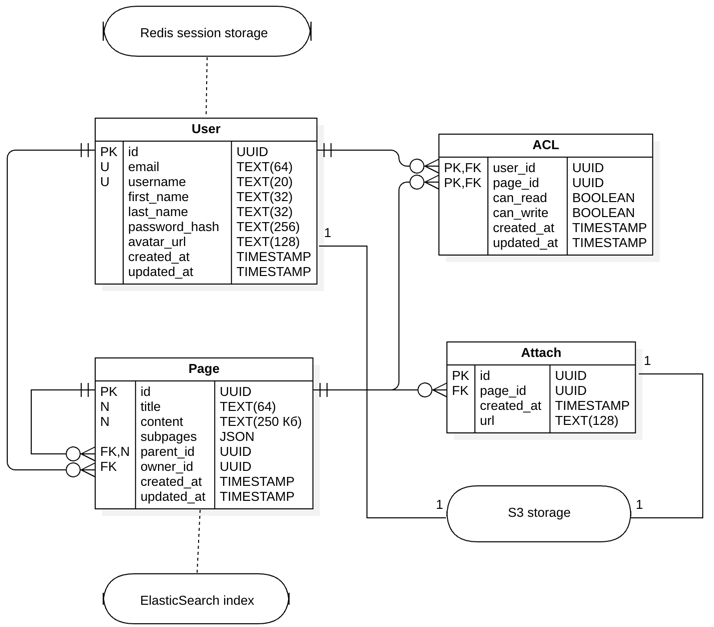
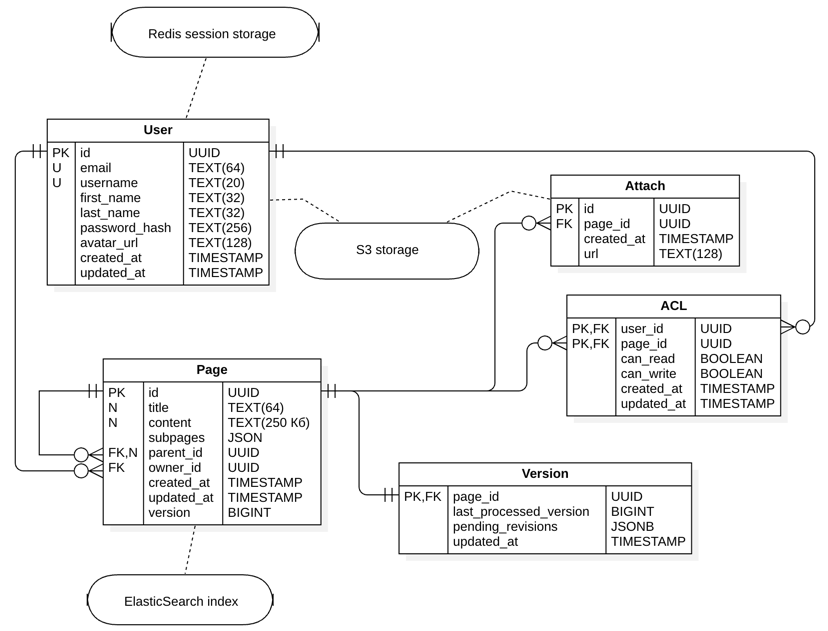
algorithms

diff --git a/README.md b/README.md
@@ -13,6 +13,8 @@
 
 [6. Физическая схема БД](#6-физическая-схема-бд)
 
+[7. Алгоритмы](#7-алгоритмы)
+
 ## 1. Тема и целевая аудитория
 Notion — сервис для создания заметок и текстовых документов, списков дел, баз данных, таблиц, канбан-досок, баз знаний, ведения проектов и совместной работы.
 
@@ -193,14 +195,15 @@ Notion — сервис для создания заметок и текстов
 
 ## 5. Логическая схема БД
 
-![img9.png](images/img9.png)
+![img10.png](images/img10.png)
 
-| Таблица | Описание                                                                                                                                              |
-|---------|-------------------------------------------------------------------------------------------------------------------------------------------------------|
-| User    | User хранит данные пользователей, такие как email, username, хэш пароля и т.д.                                                                        |
-| Page    | Page хранит данные о страницах, которые создал пользователь.<br/>Хранится название, содержимое страницы, а также данные о связях с другими страницами |
-| ACL     | ACL хранит данные о том, какой пользователь может видеть или редактировать ту или иную страницу.                                                      |
-| Attach  | Таблица хранит данные о вложениях страницы. Сами вложения будут храниться в S3 хранилище.                                                             |
+| Таблица | Описание                                                                                                                                                              |
+|---------|-----------------------------------------------------------------------------------------------------------------------------------------------------------------------|
+| User    | User хранит данные пользователей, такие как email, username, хэш пароля и т.д.                                                                                        |
+| Page    | Page хранит данные о страницах, которые создал пользователь.<br/>Хранится название, содержимое страницы, а также данные о связях с другими страницами                 |
+| ACL     | ACL хранит данные о том, какой пользователь может видеть или редактировать ту или иную страницу.                                                                      |
+| Attach  | Таблица хранит данные о вложениях страницы. Сами вложения будут храниться в S3 хранилище.                                                                             |
+| Version | Таблица хранит данные о неприменных версиях страницы, это нужно для синхронизации контента у одновременно редактирующих страницу пользователей. Связана с Page 1-к-1. |
 
 ### Ключевые моменты
 
@@ -271,6 +274,15 @@ Notion — сервис для создания заметок и текстов
 
     Итого: ~(680 млн страниц * 5 записей в правах доступа) --> 3.4 млрд записей по 82 байт --> 259.65 Гб
 
+#### Version
+
+- page_id: 32 байт
+- last_processed_version: 8 байт
+- peding_revisions: ~(35 байт * 50 неприменённых версий) --> 1750 байт
+- updated_at: 8 байт
+
+    Итого: 680 млн страниц по 1798 байт --> 1.11 Тб
+
 ## 6. Физическая схема БД
 
 ![img10.png](images/img10.png)
@@ -279,6 +291,8 @@ Notion — сервис для создания заметок и текстов
 
 Таблицы User, Page, Attach, ACL будем хранить в `PostgreSQL`, так как у этой СУБД большой функционал, а также есть расширения для масштабирования в кластер и шардирования таблиц, что будет актуально.
 
+Важно отметить, что контент страницы будет храниться также в PostgreSQL в типе JSONB. Этот тип позволяет производить частичные обновления только определенных полей этого json-а, что будет весьма полезно при реализации механизма разрешения конфликтов при совместном редактированиии страниц, так как в таком случае каждый раз перезаписывать полностью страницу просто недопустимо.
+
 Для реализации полнотекстового поиска по страницам пользователя будем использовать `ElasticSearch`, так как он хорошо подходит для данной задачи. Будем хранить в ElasticSearch данные о страницах (Page) пользователей, будем поддерживать консистентность данных. Также ElasticSearch имеет встроенные средства масштабирования, шардинга.
 
 Данные о сессиях пользователей будем хранить в `Redis`, так как у него есть ряд преимуществ:
@@ -286,6 +300,33 @@ Notion — сервис для создания заметок и текстов
 - большая скорость чтения и записи, за счет хранения в ОП;
 - поддерживает master-slave репликацию, что повышает отказоустойчивость;
 - достаточно легко масштабируется горизонтально.
+
+### Версионирование страниц
+
+Для реализации алгоритма синзронизации при совместном редактировании была добавлена таблица Version, которая имеет связь 1-к-1 с таблицуй Page. В этой таблице:
+
+- `last_processed_version` - номер последней примененной версии
+- `pending_revisions` - имеет тип JSONB - это массив еще не применённых версий, выглядит примерно так:
+
+  ```json
+  [
+    ...,
+    {
+      "v": 123,       // version
+      "o": "insert",  // operation
+      "d": "hello",   // data
+      "p": 5          // position
+    },
+    ...
+  ]
+  ```
+  При этом поле `pending_revisions` будет постоянно обновляться: после применения каждой из версий из этого поля, она будет удаляться из json-а (JSONB поддерживает механизм частиного обновления поля).
+
+Также, в таблицу Page было добавлено поле `version`, чтобы знать, какая версия страницы сейчас записана в поле `Page.content`.
+
+По сравнению с таблицей Page, таблица Version будет занимать достаточно мало места. Можно также шардировать ее по page_id, тогда страница и ее версия будут попадать в один шард.
+
+Алгоритм версионирования страниц описан в пункте [7. Алгоритмы](#7-алгоритмы).
 
 ### Индексы
 
@@ -358,3 +399,34 @@ Backend сервиса будет написан на языке Go. Будут 
 - для PostgreSQL: [jackc/pgx/v5](https://github.com/jackc/pgx) - высокопроизводительный интерфейс для взаимодействия
 - для Redis: [redis/go-redis/v9](https://github.com/redis/go-redis) - официальный интерфейс
 - для ElasticSearch: [olivere/elastic/v7](https://github.com/olivere/elastic) - наиболее функциональный и проверенный интерфейс
+
+## 7. Алгоритмы
+
+Поскольку одну и ту же страницу одновременно может редактировать несколько пользователей, необходим некоторый алгоритм разрешения конфликтов и синхронизации страницы между всеми пользователями на ней. Для решения этой задачи подходит алгоритм `OT` - `Operational Transformation`. Схема работы этого алгоритма наглядно описана в [статье на Хабре](https://habr.com/ru/articles/416961/). Вот основные моменты:
+
+1) Все правки документа сводятся к трём различным операциям (operations):
+   - вставка текста;
+   - удаление текста;
+   - применение стилей к тексту.
+2) Хранимая иформация:
+   * Каждый клиент запоминает следующую информацию:
+     - Версия (id, ревизия) последнего изменения, полученного от сервера.
+     - Все изменения, сделанные локально, но не отправленные на сервер (ожидающие отправки)
+     - Все изменения, сделанные локально, отправленные на сервер, но без подтверждения от сервера.
+     - Текущее состояние документа, которое видит пользователь.
+   * Сервер, в свою очередь, запоминает:
+     - Список всех полученных, но не обработанных изменений (ожидающие обработки).
+     - Полная история всех обработанных изменений (revision log).
+     - Состояние документа на момент последнего обработанного изменения.
+
+3) Пример работы (из той же статьи на Хабре):
+
+![img11.png](images/img11.png)
+![img12.png](images/img12.png)
+
+  То есть операции применяются последовательно по журналу, при этом позиция изменения трансформируется в соответствие с текущей версией страницы у пользователя.
+
+Для реализации такого механизма необходимо подумать о двух моментах, которые описаны в пункте [6. Физическая схема БД](#6-физическая-схема-бд):
+
+1) Нужно поддержать возможность частичного обновления страницы при записи примененных изменений - для этого контект страницы хранится в PostgreSQL в типе данных JSONB.
+2) Нужно хранить журнал изменений для каждой страницы.
